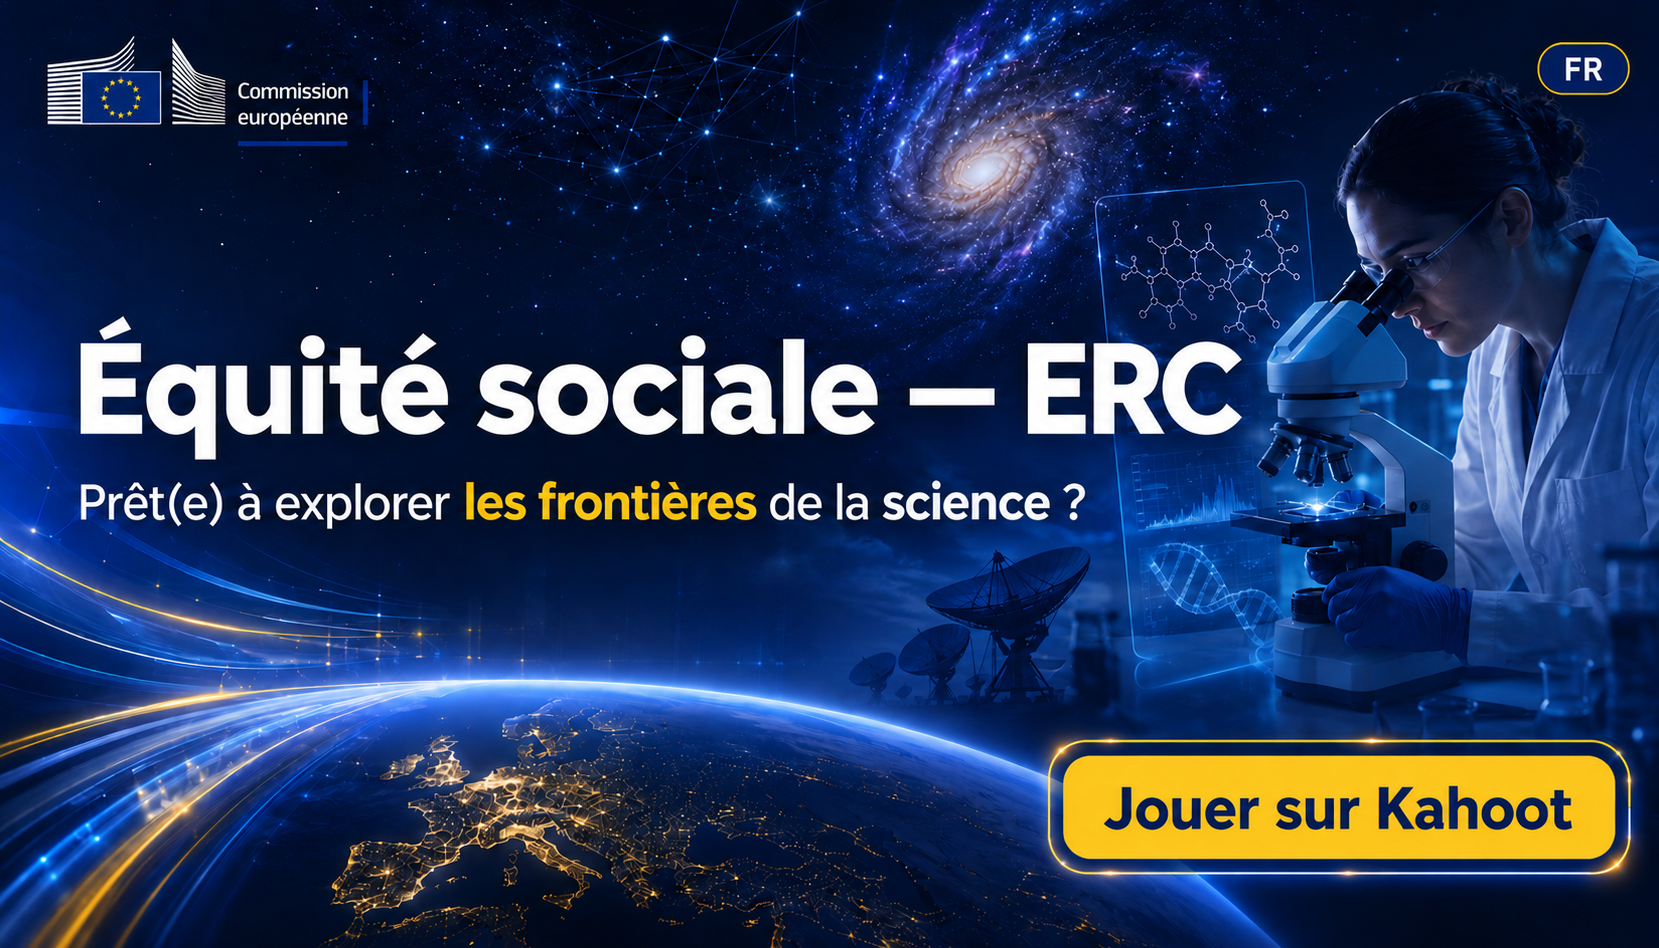
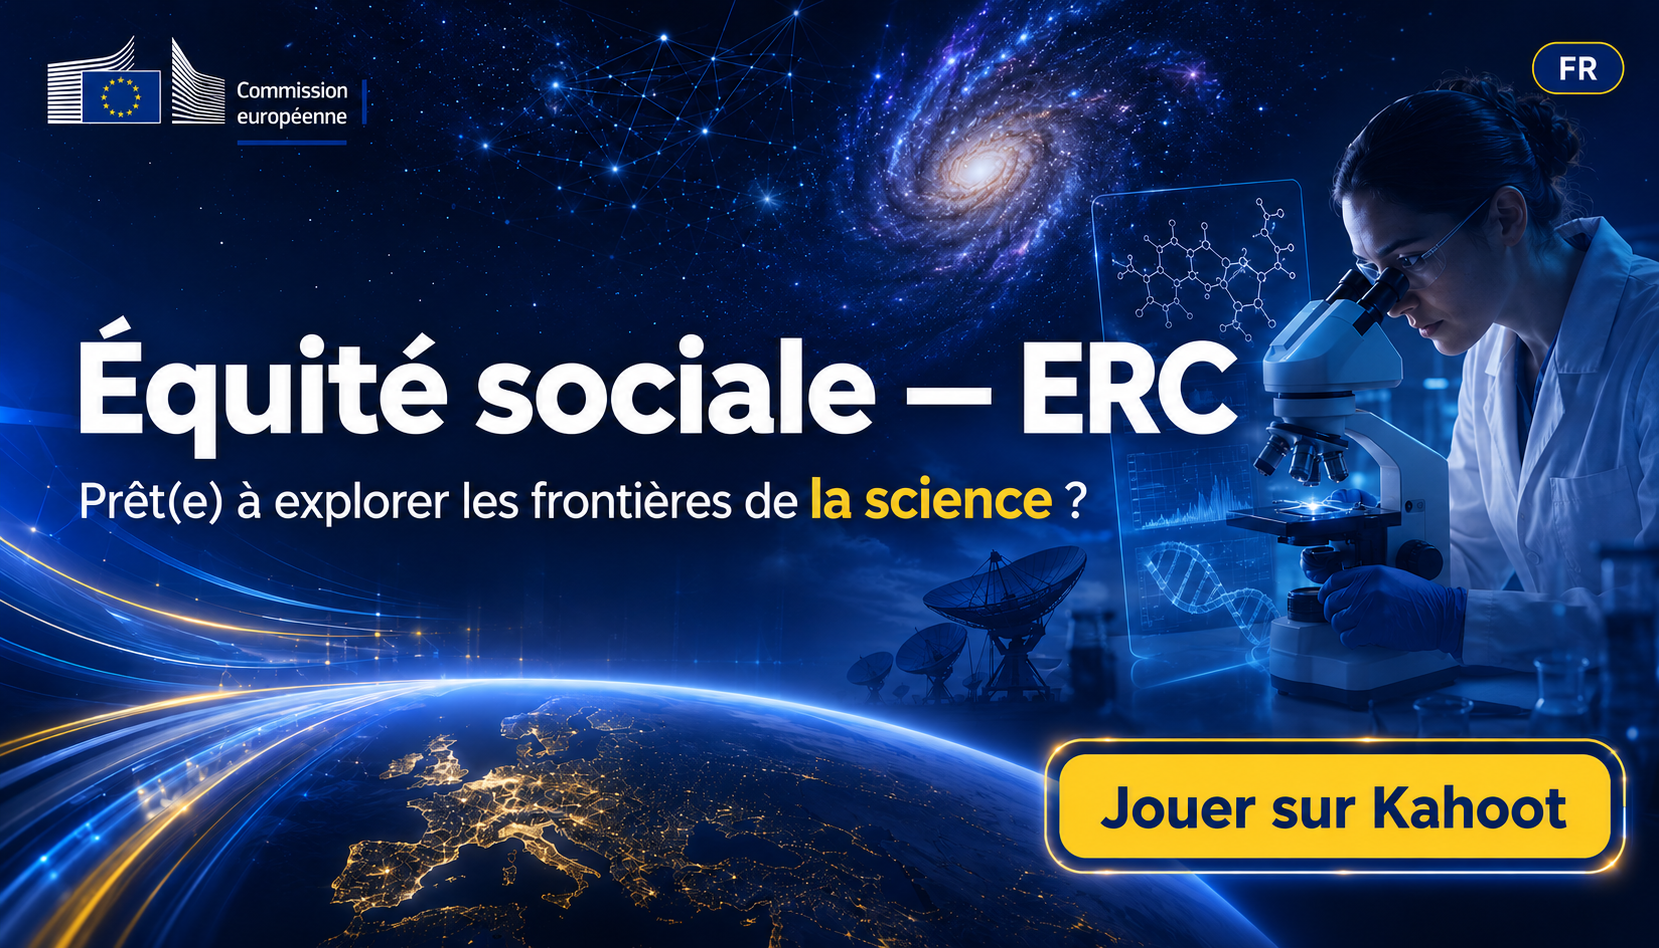
feat: Add 9 MAY date and time to Europe Day portal
Includes the addition of the "9 MAY" and time details alongside the "EUROPE DAY 2026" heading, enhancing the event information displayed on the portal. Also incorporates updated asset for quiz_6.png.

diff --git a/src/App.tsx b/src/App.tsx
@@ -278,20 +278,34 @@ export default function App() {
       {/* Main Content & Text Overlays */}
       <div className="relative z-10 flex flex-col justify-between min-h-screen p-6 sm:p-8 md:p-12">
         
-        {/* Top Text (EUROPE DAY) */}
-        <motion.div 
-          initial={{ opacity: 0, y: -20 }}
-          animate={{ opacity: 1, y: 0 }}
-          transition={{ duration: 0.8 }}
-          className="w-full pointer-events-none mb-8"
-        >
-          <div className="max-w-md">
+        {/* Top Text Group */}
+        <div className="w-full pointer-events-none mb-4 sm:mb-8 flex flex-col sm:flex-row items-start sm:items-center gap-6 sm:gap-12">
+          {/* EUROPE DAY text */}
+          <motion.div 
+            initial={{ opacity: 0, y: -20 }}
+            animate={{ opacity: 1, y: 0 }}
+            transition={{ duration: 0.8 }}
+          >
             <h1 className="text-white font-display font-black text-5xl sm:text-6xl md:text-7xl lg:text-8xl leading-[0.9] tracking-tight drop-shadow-2xl">
               EUROPE <br />
               <span className="text-eu-yellow">DAY 2026</span>
             </h1>
-          </div>
-        </motion.div>
+          </motion.div>
+
+          {/* 9 MAY text */}
+          <motion.div
+            initial={{ opacity: 0, y: -20 }}
+            animate={{ opacity: 1, y: 0 }}
+            transition={{ duration: 0.8, delay: 0.2 }}
+          >
+            <div className="border-l-[3px] border-eu-yellow pl-4 sm:pl-6 max-h-[4rem] sm:max-h-[5rem] flex flex-col justify-center">
+              <h2 className="text-white font-display font-bold text-2xl sm:text-3xl lg:text-4xl leading-tight drop-shadow-xl uppercase whitespace-nowrap">
+                9 MAY <br />
+                <span className="text-white/90 text-sm sm:text-base lg:text-lg font-medium tracking-wide">10:00-18:00</span>
+              </h2>
+            </div>
+          </motion.div>
+        </div>
 
         {/* Main Content Grid */}
         <main className="flex-1 flex flex-col justify-center w-full max-w-[1000px] xl:max-w-[1200px] mx-auto py-8">
@@ -364,20 +378,7 @@ export default function App() {
         </AnimatePresence>
       </main>
 
-      {/* Bottom Text (9 MAY) */}
-      <motion.div
-          initial={{ opacity: 0, y: 20 }}
-          animate={{ opacity: 1, y: 0 }}
-          transition={{ duration: 0.8, delay: 0.2 }}
-          className="absolute bottom-6 left-6 sm:bottom-8 sm:left-8 md:bottom-22 md:left-12 pointer-events-none z-30"
-      >
-        <div className="border-l-4 border-eu-yellow pl-4 sm:pl-6">
-          <h2 className="text-white font-display font-bold text-2xl sm:text-3xl md:text-4xl leading-tight drop-shadow-xl uppercase whitespace-nowrap">
-            9 MAY <br />
-            <span className="text-white/80 text-lg sm:text-xl md:text-2xl font-semibold">10:00-18:00</span>
-          </h2>
-        </div>
-      </motion.div>
+
 
       </div>
 
